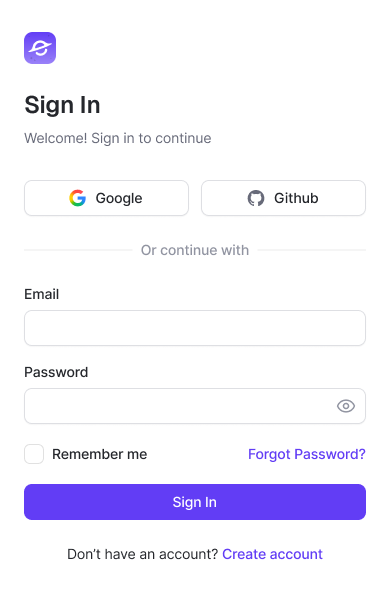
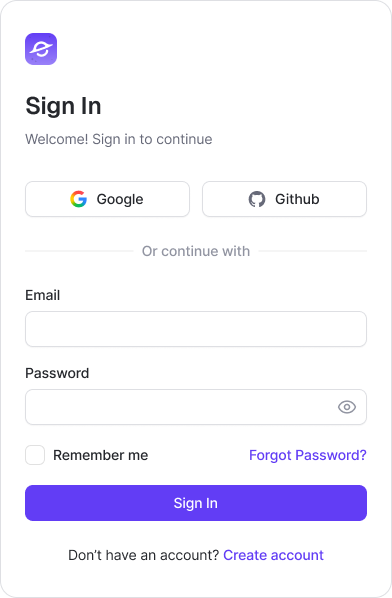
fix: reuseable float animation removed and image update

diff --git a/apps/website/src/components/home/feature-section-component/reuse-component.tsx b/apps/website/src/components/home/feature-section-component/reuse-component.tsx
@@ -30,25 +30,6 @@ export function ReuseComponent() {
 		setCenterCardIndex(cardIndex)
 	}
 
-	// Start continuous up-down animation
-	const startFloatingAnimation = async () => {
-		// First, smoothly move to starting position if not already there
-		await controls.start({
-			y: -50,
-			transition: { duration: 1, ease: "easeOut" },
-		})
-
-		// Then start the infinite loop
-		controls.start({
-			y: [-50, -150, -50],
-			transition: {
-				duration: 4,
-				repeat: Infinity,
-				ease: "easeInOut",
-			},
-		})
-	}
-
 	useEffect(() => {
 		const container = containerRef.current
 		if (container) {
@@ -58,7 +39,6 @@ export function ReuseComponent() {
 			scrollX.set(initialScroll)
 		}
 
-		startFloatingAnimation()
 		calculateCenterCard()
 	}, [])
 
@@ -70,7 +50,6 @@ export function ReuseComponent() {
 			// When velocity is near zero, animation is complete
 			if (Math.abs(velocity) < 1 && isAnimating) {
 				setIsAnimating(false)
-				startFloatingAnimation()
 			}
 		})
 
@@ -155,50 +134,50 @@ export function ReuseComponent() {
 		{
 			id: 0,
 			type: {
-				darkmode: "/reuseable-ui/dark-mode3.png",
-				lightmode: "/reuseable-ui/light-mode3.png",
+				darkmode: "",
+				lightmode: "",
 			},
 		},
 		{
 			id: 1,
 			type: {
-				darkmode: "/reuseable-ui/dark-mode2.png",
-				lightmode: "/reuseable-ui/light-mode2.png",
+				darkmode: "",
+				lightmode: "",
 			},
 		},
 		{
 			id: 2,
 			type: {
+				darkmode: "",
+				lightmode: "",
+			},
+		},
+		{
+			id: 3,
+			type: {
 				darkmode: "/reuseable-ui/dark-mode3.png",
 				lightmode: "/reuseable-ui/light-mode3.png",
 			},
 		},
 		{
-			id: 3,
+			id: 4,
 			type: {
 				darkmode: "/reuseable-ui/dark-mode2.png",
 				lightmode: "/reuseable-ui/light-mode2.png",
 			},
 		},
 		{
-			id: 4,
+			id: 5,
 			type: {
 				darkmode: "/reuseable-ui/dark-mode1.png",
 				lightmode: "/reuseable-ui/light-mode1.png",
-			},
-		},
-		{
-			id: 5,
-			type: {
-				darkmode: "/reuseable-ui/dark-mode3.png",
-				lightmode: "/reuseable-ui/light-mode3.png",
 			},
 		},
 		{
 			id: 6,
 			type: {
-				darkmode: "/reuseable-ui/dark-mode1.png",
-				lightmode: "/reuseable-ui/light-mode1.png",
+				darkmode: "",
+				lightmode: "",
 			},
 		},
 	]
@@ -219,7 +198,7 @@ export function ReuseComponent() {
 					<div
 						onMouseMove={(e) => handleMouseMove(e, card.id)}
 						key={card.id}
-						className={`w-90 relative flex h-[520px] flex-shrink-0 flex-col items-center justify-center transition-all duration-300`}>
+						className={`w-90 relative flex h-[580px] flex-shrink-0 flex-col items-center justify-center transition-all duration-300`}>
 						<AnimatePresence mode="sync">
 							{centerCardIndex === index - 2 ? (
 								<motion.div
@@ -231,22 +210,40 @@ export function ReuseComponent() {
 										duration: 0.5,
 										ease: "linear",
 									}}
-									className="absolute inset-0 flex items-center justify-center">
-									<Image src={card.type.darkmode} className="not-dark:hidden" alt="Dark Mode 1" width={360} height={594} />
-									<Image src={card.type.lightmode} className="dark:hidden" alt="Dark Mode 1" width={360} height={594} />
+									className="absolute inset-0 flex items-start justify-center">
+									{card.type.darkmode && <Image unoptimized src={card.type.darkmode} className="not-dark:hidden" alt="Dark Mode" width={360} height={594} />}
+									{card.type.lightmode && <Image unoptimized src={card.type.lightmode} className="dark:hidden" alt="Light Mode" width={360} height={594} />}
 								</motion.div>
 							) : (
-								<motion.div
-									key={`empty-${index}`}
-									initial={{ opacity: 0 }}
-									animate={{ opacity: 1 }}
-									exit={{ opacity: 0 }}
-									transition={{
-										duration: 0.5,
-										ease: "linear",
-									}}
-									className="w-90 bg-fill1 absolute inset-0 flex flex-col items-center justify-center rounded-2xl border-2 border-dotted px-6 py-8"
-								/>
+								<>
+									{!card.type.darkmode || !card.type.lightmode ? (
+										<motion.div
+											key={`empty1-${index}`}
+											initial={{ opacity: 0 }}
+											animate={{ opacity: 1 }}
+											exit={{ opacity: 0 }}
+											transition={{
+												duration: 0.5,
+												ease: "linear",
+											}}
+											className="w-90 bg-fill1 absolute inset-0 flex flex-col items-center justify-center rounded-2xl border-2 border-dotted px-6 py-8 opacity-10"
+										/>
+									) : (
+										<motion.div
+											key={`empty-${index}`}
+											initial={{ opacity: 0 }}
+											animate={{ opacity: 1 }}
+											exit={{ opacity: 0 }}
+											transition={{
+												duration: 0.5,
+												ease: "linear",
+											}}
+											className="absolute inset-0 flex items-start justify-center">
+											{card.type.darkmode && <Image unoptimized src={card.type.darkmode} className="not-dark:hidden opacity-20" alt="Dark Mode" width={360} height={594} />}
+											{card.type.lightmode && <Image unoptimized src={card.type.lightmode} className="opacity-20 dark:hidden" alt="Light Mode" width={360} height={594} />}
+										</motion.div>
+									)}
+								</>
 							)}
 						</AnimatePresence>
 					</div>
